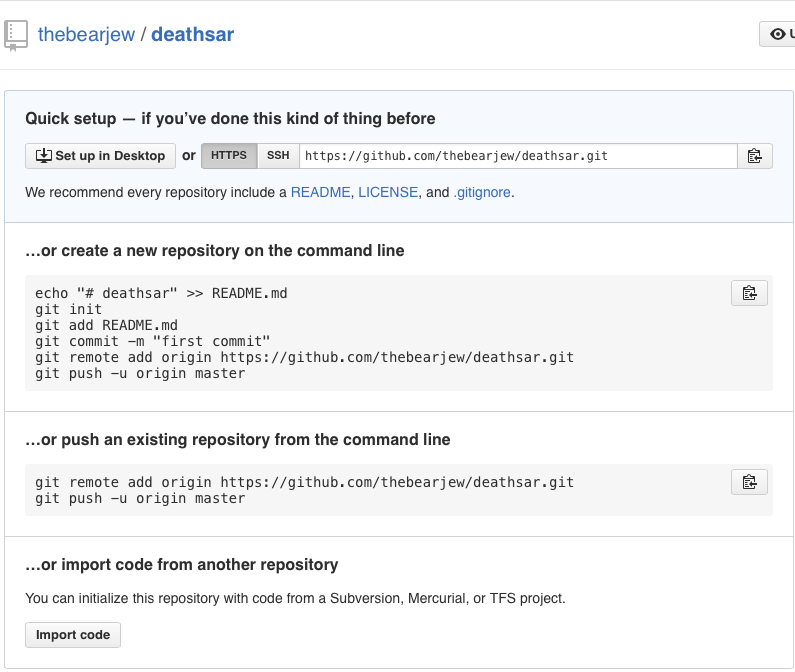
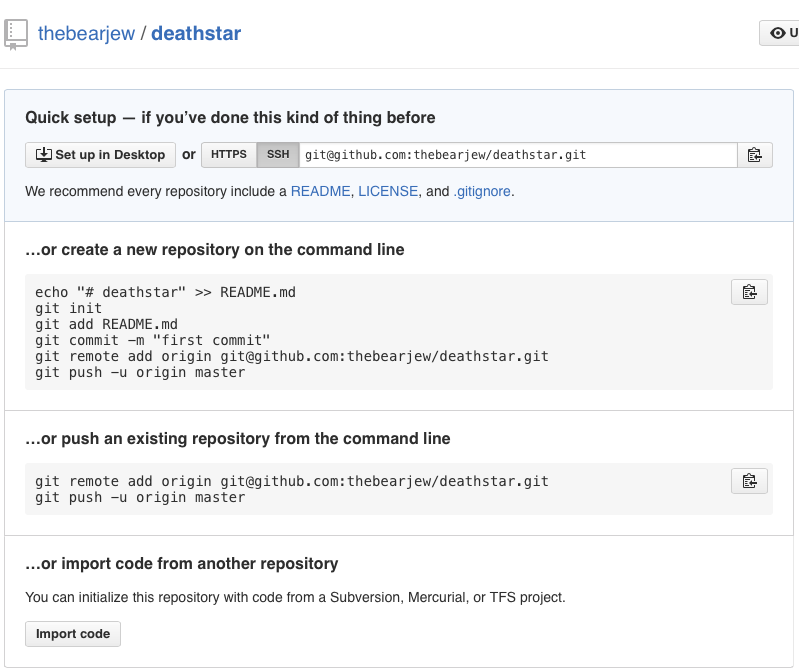
Added more workshop content
Also modified empty-repostiory screenshot with proper remote repo spelling

diff --git a/workshop/README.md b/workshop/README.md
@@ -114,7 +114,8 @@ For this example, lets make another commit.
 Open `destory.js` and add the following line to the end:
 
 ```js
-console.log("Luke, I am your father");
+console.log('Luke, I am your father!'');
+console.log('I\'m not actually, my name is YOUR_NAME...')
 ```
 
 Then go through the adding the changes (above), and the commit them like we just did. 
@@ -135,7 +136,104 @@ Thankfully, Github has been nice and explained how we can link our folder and th
 
 First we'll add the URL of this repository to our local folder, and name it `origin` with this command:
 
-`git remote add origin https://github.com/YOUR_USERNAME/deathsar.git`
+`$ git remote add origin https://github.com/YOUR_USERNAME/deathsar.git`
+
+### Pushing
+Pushing is simply update your *remote repository* with the commits you've made on a branch.
+
+We're on the master branch with two commits (the ones we just made). And we want to send this to our repository on Github. Lets `push` the commits to the corresponding branch:
+
+```
+$ git push -u origin master
+Counting objects: 3, done.
+Delta compression using up to 4 threads.
+Compressing objects: 100% (2/2), done.
+Writing objects: 100% (3/3), 804 bytes | 0 bytes/s, done.
+Total 3 (delta 0), reused 0 (delta 0)
+To git@github.com:YOUR_USERNAME/deathstar.git
+ * [new branch]      master -> master
+Branch master set up to track remote branch master from origin.
+```
+
+This means push to the `origin` (https://github.com/YOUR_USERNAME/deathstar.git) branch called `master` (the same one we're on). If we were on another branch, we would push to the branch with the same name.
+
+Git is also telling us that the remote now has a new branch called `master`! The same one we were working on
+
+**Note**: The `-u` is only used the first time to connect branches between local and remote repositories. Next time you push do so like this `$ git push origin branch-name`.
+
+Refresh the page on your Github repo!
+
+### Working Together (Cloning, Pushing, Pulling)
+In order to practice pulling, you need to work with another person. So turn to the person next to you, say hi, ask their name, and their Github username.
+
+One person will be called "Developer A" and the other "Developer B".
+
+Dev A should **add Dev B as a collaborator** on their Github repository (https://github.com/DEVELOPER-A/deathstar.git).
+
+You can do that by going to Settings > Collaborators > Then add Dev B's username.
+
+##### - Cloning Someone Else's Repository
+Dev B should now `clone` Dev A's repository on Github.
+
+```
+$ cd /where/you/want/to/clone/it
+
+$ git clone https://github.com/DEVELOPER-A/deathstar.git
+Cloning into 'deathstar'...
+remote: Counting objects: 3, done.
+remote: Compressing objects: 100% (2/2), done.
+remote: Total 3 (delta 0), reused 3 (delta 0), pack-reused 0
+Receiving objects: 100% (3/3), done.
+Checking connectivity... done.
+```
+Congrats Dev B, you just clone Dev A's work! Now `cd` into the repo and open up `destory.js`... You should see Dev A's print statement at the end:
+
+```js
+console.log('I\'m not actually, my name is <DEV-A-NAME>...')
+```
+
+##### - Pushing to Dev A's Repo
+Okay Dev B, your time to shine!
+
+Edit the `destory.js` to print whatever you'd like (try to be nice :P)
+
+- Add the changes
+- Commit the changes
+- Push the commits to the master branch on Dev A's repo
+
+If you need help, there are mentors around the room ready to help you
+
+##### - Pulling Dev B's Additions
+Your turn Dev A. So your friend and made a commit to your repo, awesome! 
+
+But how do you get those changes onto your local repository? With **pulling**. Pulling is simply the opposite of pushing (duh!) - it means there are things on the remote you don't have which you want, so you **pull them down to your computer**.
+
+Here's a picture to visualize
+
+![](https://illustrated-git.readthedocs.org/en/latest/_images/git-flows.svg)
+
+Time to `pull`:
+
+```
+$ git pull 
+# NOTE TO SELF, HAVE SOMEONE ELSE COMMIT TO DEATHSTAR THEN DO EXAMPLE PULL
+``` 
+
+Now, Dev A, open your `destory.js` file and you should see the additions that Dev B made!
+
+### Todo
+
+> Branching
+> 
+> Checking Out
+> 
+> Pull Requests
+> 
+> etc.
+
+
+
+
 
 
 
